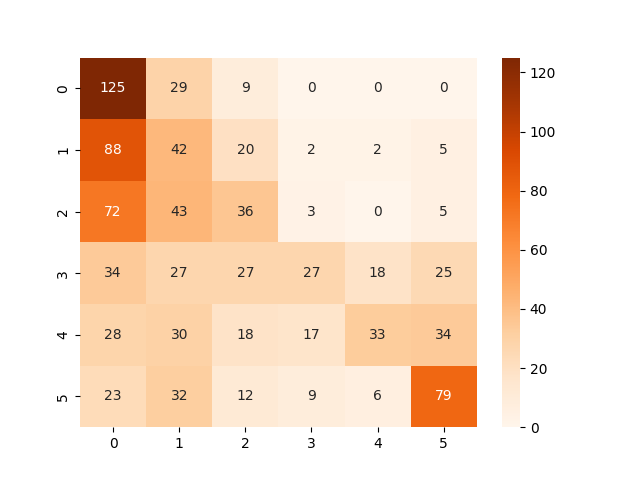
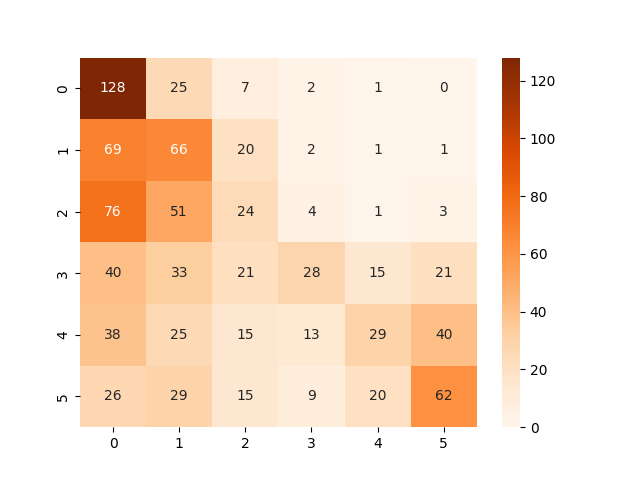
makes baptman happy

diff --git a/code/main.py b/code/main.py
@@ -38,7 +38,7 @@ class ReadmeGenerator:
         data.extend(["F1-score", self.__lr0.getF1(),self.__knn0.getF1(),self.__dt0.getF1(),self.__rf0.getF1()])
         data.extend(["Accuracy", self.__lr0.getAccuracy(),self.__knn0.getAccuracy(),self.__dt0.getAccuracy(),self.__rf0.getAccuracy()])
         self.__mdFile.new_table(columns=5, rows=5, text=data)
-        self.__mdFile.new_header(level=2, title="Result with Data Cleaning")
+        self.__mdFile.new_header(level=1, title="Result with Data Cleaning")
         data = ["/","Logistic regression", "kNN", "Decision Tree", "Random Forests", "MLP"]
         data.extend(["Precision", self.__lr.getPrecision(), self.__knn.getPrecision(),self.__dt.getPrecision(),self.__rf.getPrecision(),self.__mlp.getPrecision() if self.__mlp is not None else 0.4827])
         data.extend(["Recall", self.__lr.getRecall(),self.__knn.getRecall(),self.__dt.getRecall(),self.__rf.getRecall(),self.__mlp.getRecall() if self.__mlp is not None else 0.4854])
@@ -72,33 +72,33 @@ if __name__ == '__main__':
     rf_metrics0 = rfThread.join()
 
     print(lr_metrics0)
-    sns.heatmap(pd.DataFrame(lr_metrics0.getConfMatrix()[0]), annot=True, cmap='Oranges', fmt='.4g');
+    sns.heatmap(pd.DataFrame(lr_metrics0.getConfMatrix()), annot=True, cmap='Oranges', fmt='.4g');
     plt.savefig("LR_without_DC.png")
     plt.clf()
     plt.cla()
     plt.close()
     
     print(kNN_metrics0)
-    sns.heatmap(pd.DataFrame(kNN_metrics0.getConfMatrix()[0]), annot=True, cmap='Oranges', fmt='.4g');
+    sns.heatmap(pd.DataFrame(kNN_metrics0.getConfMatrix()), annot=True, cmap='Oranges', fmt='.4g');
     plt.savefig("KNN_without_DC.png")
     plt.clf()
     plt.cla()
     plt.close()
 
     print(dt_metrics0)
-    sns.heatmap(pd.DataFrame(dt_metrics0.getConfMatrix()[0]), annot=True, cmap='Oranges', fmt='.4g');
+    sns.heatmap(pd.DataFrame(dt_metrics0.getConfMatrix()), annot=True, cmap='Oranges', fmt='.4g');
     plt.savefig("DT_without_DC.png")
     plt.clf()
     plt.cla()
     plt.close()
 
     print(rf_metrics0)
-    sns.heatmap(pd.DataFrame(rf_metrics0.getConfMatrix()[0]), annot=True, cmap='Oranges', fmt='.4g');
+    sns.heatmap(pd.DataFrame(rf_metrics0.getConfMatrix()), annot=True, cmap='Oranges', fmt='.4g');
     plt.savefig("RF_without_DC.png")
     plt.clf()
     plt.cla()
     plt.close()
-    df = pd.DataFrame({'Accuracy' : [float(lr_metrics0.getAccuracy()[0]),float(kNN_metrics0.getAccuracy()[0]),float(dt_metrics0.getAccuracy()[0]),float(rf_metrics0.getAccuracy()[0])]}, index=["LR","kNN","DT","RF"])
+    df = pd.DataFrame({'Accuracy' : [float(lr_metrics0.getAccuracy()),float(kNN_metrics0.getAccuracy()),float(dt_metrics0.getAccuracy()),float(rf_metrics0.getAccuracy())]}, index=["LR","kNN","DT","RF"])
     df.plot()
     plt.savefig("Graph_Acc_without_DC.png")
     

diff --git a/code/util.py b/code/util.py
@@ -10,6 +10,7 @@ from EvaluationMetrics import EvaluationMetrics
 stop_words = spacy.lang.fr.stop_words.STOP_WORDS
 sp = spacy.load('fr_core_news_sm')
 punctuations = string.punctuation
+numbers = "0123456789"
 
 
 def get_training_data():
@@ -27,13 +28,26 @@ def spacy_tokenizer(sentence):
     mytokens = sp(sentence)
 
     # Lemmatize each token and convert each token into lowercase
-    mytokens = [ word.lemma_.lower().strip() for word in mytokens ]
+    mytokens = [ word.lemma_.lower().strip() if word.lemma_ != "-PRON-" else word.lower_ for word in mytokens ]
 
     # Remove stop words and punctuation
     mytokens = [ word for word in mytokens if word not in stop_words and word not in punctuations ]
 
+    # Remove anonymous dates and people
+    mytokens = [ word.replace('xx/', '').replace('xxxx/', '').replace('xx', '') for word in mytokens ]
+    mytokens = [ word for word in mytokens if word not in ["xxxx", "xx", ""]]
+
+    # Remove sufix like ".[1" in "experience.[1"
+    mytokens_2 = []
+    for word in mytokens:
+      for char in word:
+        if (char in punctuations) or (char in numbers):
+          word = word.replace(char, "")
+      if word != "":
+        mytokens_2.append(word)
+
     # Return preprocessed list of tokens
-    return mytokens
+    return mytokens_2
 
 def spacy_tokenizer_without_dc(sentence):
     # Create token object, which is used to create documents with linguistic annotations.

diff --git a/code/DecisionTree.py b/code/DecisionTree.py
@@ -29,7 +29,7 @@ class DecisionTreeThread(threading.Thread):
         print("[DT]\t:\tSplitting data")
         X = df['sentence']
         y = df['difficulty']
-        X_train, X_test, y_train, y_test = train_test_split(X, y, test_size=0.2, random_state=1234, stratify=y)
+        X_train, X_test, y_train, y_test = train_test_split(X, y, test_size=0.2, random_state=0, stratify=y)
 
         bestMetrics = None
         configs = util.configs()
@@ -38,7 +38,7 @@ class DecisionTreeThread(threading.Thread):
             configId = f"config {index + 1}/{len(configs)}"
             print(f"[DT]\t:\t Starting with {configId}")
             tfidf_vector = get_tfidf_vector(config)
-            classifier = DecisionTreeClassifier(criterion='gini', max_depth=5, random_state=0, min_samples_leaf=2, max_features='auto')
+            classifier = DecisionTreeClassifier(criterion='gini', max_depth=5, random_state=0)
 
             pipe = Pipeline([('vectorizer', tfidf_vector),
                             ('classifier', classifier)])

diff --git a/code/LogisticRegression.py b/code/LogisticRegression.py
@@ -33,7 +33,7 @@ class LogisticRegressionThread(threading.Thread):
         print("[LR]\t:\tSplitting data")
         X = df['sentence']
         y = df['difficulty']
-        X_train, X_test, y_train, y_test = train_test_split(X, y, test_size=0.2, random_state=1234, stratify=y)
+        X_train, X_test, y_train, y_test = train_test_split(X, y, test_size=0.2, random_state=0, stratify=y)
 
         bestMetrics = None
         configs = util.configs()
@@ -64,4 +64,3 @@ class LogisticRegressionThread(threading.Thread):
             print(f"[LR] ({configId})\t:\tEnd of evaluation in {time.time() - config_start_time}")
         self.__bestMetrics = bestMetrics
         print(f"[LR]\t:\tDone in {time.time() - start_time}")
-

diff --git a/code/EvaluationMetrics.py b/code/EvaluationMetrics.py
@@ -9,19 +9,19 @@ class EvaluationMetrics:
         self.__config = None
 
     def getPrecision(self):
-        return self.__precision
+        return self.__precision[0]
 
     def getRecall(self):
-        return self.__recall
+        return self.__recall[0]
 
     def getF1(self):
-        return self.__f1
+        return self.__f1[0]
 
     def getAccuracy(self):
-        return self.__accuracy
+        return self.__accuracy[0]
     
     def getConfMatrix(self):
-        return self.__confusion_matrix
+        return self.__confusion_matrix[0]
 
     def setConfig(self, config):
         self.__config = config

diff --git a/code/kNN_without_dc.py b/code/kNN_without_dc.py
@@ -34,7 +34,7 @@ class kNNThread_without_dc(threading.Thread):
         print("[kNN] Splitting data")
         X = df['sentence']
         y = df['difficulty']
-        X_train, X_test, y_train, y_test = train_test_split(X, y, test_size=0.2, random_state=1234, stratify=y)
+        X_train, X_test, y_train, y_test = train_test_split(X, y, test_size=0.2, random_state=0, stratify=y)
         bestMetrics = None
         config_start_time = time.time()
         tfidf_vector = get_tfidf_vector_without_dc()

diff --git a/code/kNN.py b/code/kNN.py
@@ -33,7 +33,7 @@ class kNNThread(threading.Thread):
         print("[kNN]\t:\tSplitting data")
         X = df['sentence']
         y = df['difficulty']
-        X_train, X_test, y_train, y_test = train_test_split(X, y, test_size=0.2, random_state=1234, stratify=y)
+        X_train, X_test, y_train, y_test = train_test_split(X, y, test_size=0.2, random_state=0, stratify=y)
         bestMetrics = None
         configs = util.configs()
         for index, config in enumerate(configs):

diff --git a/code/LogisticRegression_without_dc.py b/code/LogisticRegression_without_dc.py
@@ -34,7 +34,7 @@ class LogisticRegressionThread_without_dc(threading.Thread):
         print("[LR] Splitting data")
         X = df['sentence']
         y = df['difficulty']
-        X_train, X_test, y_train, y_test = train_test_split(X, y, test_size=0.2, random_state=1234, stratify=y)
+        X_train, X_test, y_train, y_test = train_test_split(X, y, test_size=0.2, random_state=0, stratify=y)
 
         bestMetrics = None
         config_start_time = time.time()

diff --git a/code/DecisionTree_without_dc.py b/code/DecisionTree_without_dc.py
@@ -30,7 +30,7 @@ class DecisionTreeThread_without_dc(threading.Thread):
         print("[DT] Splitting data")
         X = df['sentence']
         y = df['difficulty']
-        X_train, X_test, y_train, y_test = train_test_split(X, y, test_size=0.2, random_state=1234, stratify=y)
+        X_train, X_test, y_train, y_test = train_test_split(X, y, test_size=0.2, random_state=0, stratify=y)
 
         bestMetrics = None
         config_start_time = time.time()

diff --git a/code/RandomForest_without_dc.py b/code/RandomForest_without_dc.py
@@ -34,7 +34,7 @@ class RandomForestThread_without_dc(threading.Thread):
         print("[RF] Splitting data")
         X = df['sentence']
         y = df['difficulty']
-        X_train, X_test, y_train, y_test = train_test_split(X, y, test_size=0.2, random_state=1234, stratify=y)
+        X_train, X_test, y_train, y_test = train_test_split(X, y, test_size=0.2, random_state=0, stratify=y)
 
         bestMetrics = None
         config_start_time = time.time()

diff --git a/code/RandomForest.py b/code/RandomForest.py
@@ -33,7 +33,7 @@ class RandomForestThread(threading.Thread):
         print("[RF]\t:\tSplitting data")
         X = df['sentence']
         y = df['difficulty']
-        X_train, X_test, y_train, y_test = train_test_split(X, y, test_size=0.2, random_state=1234, stratify=y)
+        X_train, X_test, y_train, y_test = train_test_split(X, y, test_size=0.2, random_state=0, stratify=y)
 
         bestMetrics = None
         configs = util.configs()

diff --git a/code/MLP.py b/code/MLP.py
@@ -30,7 +30,7 @@ class MLPThread(threading.Thread):
         print("[MLP]\t:\tSplitting data")
         X = df['sentence']
         y = df['difficulty']
-        X_train, X_test, y_train, y_test = train_test_split(X, y, test_size=0.2, random_state=1234, stratify=y)
+        X_train, X_test, y_train, y_test = train_test_split(X, y, test_size=0.2, random_state=0, stratify=y)
 
         bestMetrics = None
         configs = util.configs()
